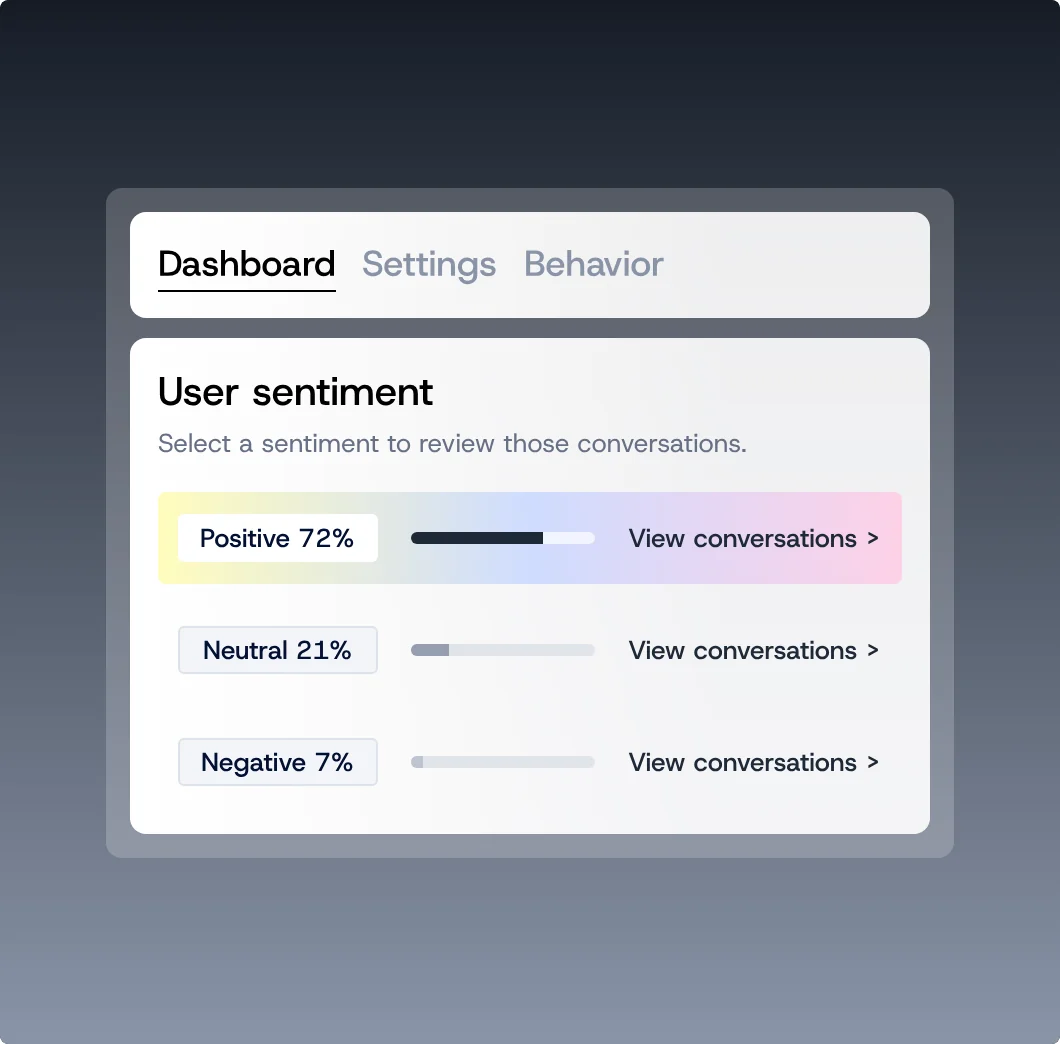
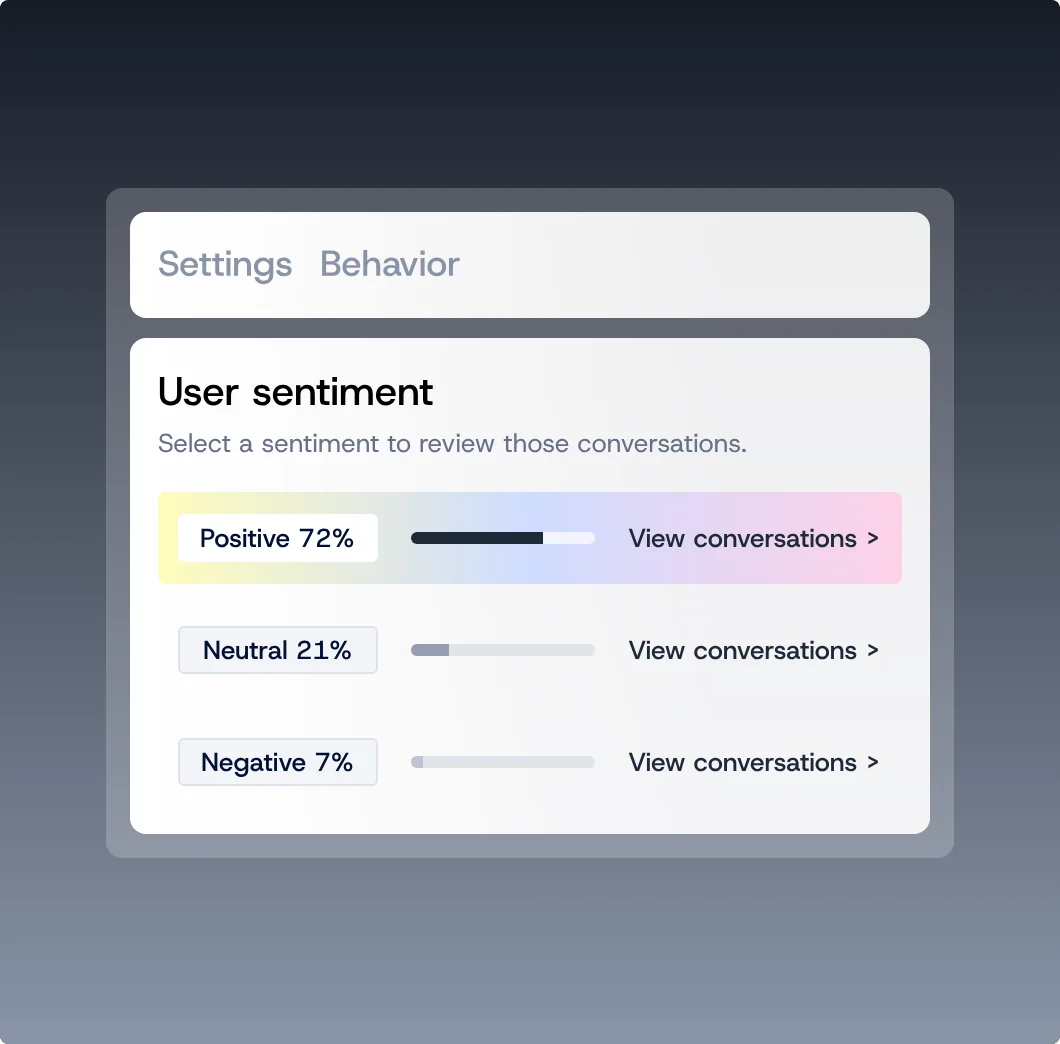
Shopping Agent case study: new section headings and closing copy
Rename the four visual sections, replace the closing section with
Teaching Claude how we make images, add Motion to the project type, and
point the landing page link at the live URL. The sentiment visual drops
the Dashboard tab, so its tab bar reads Settings and Behavior with
neither marked active.

Claude-Session: https://claude.ai/code/session_01EZM689KsvKFphAwFfYHJbi

Changed region(s): [[0.1557, 0.2452, 0.467, 0.2759], [0.4981, 0.2452, 0.6226, 0.2759]]

diff --git a/public/embeds/shopping-agent-sentiment.html b/public/embeds/shopping-agent-sentiment.html
@@ -89,10 +89,8 @@
       <rect x="53" y="94" width="424" height="335" rx="8" class="rsn-f-white" fill-opacity=".2"/>
       <!-- Tabs -->
       <rect x="65" y="106" width="400" height="53" rx="8" fill="url(#rsn-tabs)"/>
-      <path class="rsn-f-black" d="M80.08 137.9V125.3H84.2Q86.42 125.3 87.85 126.07Q89.28 126.85 89.97 128.26Q90.66 129.67 90.66 131.62Q90.66 133.53 89.97 134.94Q89.28 136.35 87.85 137.13Q86.42 137.9 84.2 137.9ZM82.06 136.23H84.11Q85.8 136.23 86.79 135.67Q87.78 135.11 88.22 134.08Q88.65 133.06 88.65 131.62Q88.65 130.18 88.22 129.13Q87.78 128.09 86.79 127.53Q85.8 126.97 84.11 126.97H82.06ZM94.61 138.12Q93.56 138.12 92.83 137.75Q92.1 137.38 91.73 136.77Q91.37 136.15 91.37 135.43Q91.37 134.01 92.39 133.24Q93.42 132.46 95.09 132.46Q95.85 132.46 96.44 132.58Q97.04 132.7 97.41 132.82V132.41Q97.41 131.37 96.85 130.86Q96.28 130.36 95.34 130.36Q94.64 130.36 94.1 130.65Q93.56 130.93 93.42 131.65H91.51Q91.62 130.68 92.17 130.04Q92.72 129.4 93.54 129.08Q94.37 128.76 95.34 128.76Q97.29 128.76 98.34 129.73Q99.39 130.7 99.39 132.41V134.75Q99.39 135.43 99.48 135.74Q99.56 136.05 99.75 136.13Q99.93 136.21 100.26 136.21H100.35V137.9H99.92Q99.02 137.9 98.41 137.63Q97.81 137.36 97.58 136.55Q97.14 137.22 96.41 137.67Q95.67 138.12 94.61 138.12ZM95 136.57Q95.69 136.57 96.17 136.24Q96.66 135.9 96.96 135.35Q97.25 134.8 97.32 134.17Q96.93 134.07 96.39 133.96Q95.85 133.85 95.29 133.85Q94.34 133.85 93.85 134.25Q93.36 134.64 93.36 135.29Q93.36 135.85 93.8 136.21Q94.23 136.57 95 136.57ZM105.26 138.12Q103.57 138.12 102.44 137.32Q101.32 136.53 101.16 135.09H103.19Q103.32 135.76 103.89 136.15Q104.47 136.55 105.33 136.55Q106.18 136.55 106.64 136.21Q107.1 135.87 107.1 135.36Q107.1 134.95 106.8 134.73Q106.5 134.52 105.71 134.39Q105.41 134.34 104.99 134.27Q104.58 134.21 104.27 134.14Q103.59 134.01 102.98 133.71Q102.38 133.4 102 132.87Q101.63 132.34 101.63 131.53Q101.63 130.36 102.51 129.56Q103.39 128.76 105.01 128.76Q106.61 128.76 107.59 129.47Q108.57 130.18 108.72 131.58H106.77Q106.72 130.93 106.22 130.63Q105.71 130.32 105.01 130.32Q104.27 130.32 103.84 130.63Q103.41 130.93 103.41 131.38Q103.41 132.21 104.72 132.45Q104.92 132.48 105.18 132.53Q105.44 132.57 105.72 132.62Q106 132.66 106.2 132.7Q106.67 132.75 107.15 132.91Q107.64 133.06 108.05 133.33Q108.47 133.6 108.72 134.05Q108.97 134.5 108.97 135.18Q108.97 136.05 108.53 136.7Q108.09 137.36 107.26 137.74Q106.43 138.12 105.26 138.12ZM110.52 137.9V124.94H112.5V130.39Q112.95 129.64 113.75 129.2Q114.55 128.76 115.52 128.76Q117.12 128.76 118.05 129.77Q118.98 130.79 118.98 132.79V137.9H117.02V132.99Q117.02 131.73 116.51 131.09Q116.01 130.45 114.96 130.45Q113.9 130.45 113.2 131.19Q112.5 131.92 112.5 133.29V137.9ZM125.85 138.12Q124.81 138.12 124.02 137.7Q123.23 137.29 122.76 136.57V137.9H120.78V124.94H122.76V130.34Q123.19 129.71 123.95 129.23Q124.7 128.76 125.85 128.76Q127.15 128.76 128.14 129.37Q129.13 129.98 129.7 131.04Q130.26 132.1 130.26 133.45Q130.26 134.79 129.7 135.85Q129.13 136.91 128.14 137.51Q127.15 138.12 125.85 138.12ZM125.49 136.39Q126.3 136.39 126.93 136.01Q127.55 135.63 127.9 134.98Q128.25 134.32 128.25 133.45Q128.25 132.57 127.9 131.9Q127.55 131.22 126.93 130.85Q126.3 130.48 125.49 130.48Q124.68 130.48 124.06 130.85Q123.44 131.22 123.09 131.89Q122.74 132.55 122.74 133.44Q122.74 134.32 123.09 134.98Q123.44 135.63 124.06 136.01Q124.68 136.39 125.49 136.39ZM135.92 138.12Q134.58 138.12 133.52 137.53Q132.46 136.95 131.84 135.88Q131.22 134.82 131.22 133.44Q131.22 132.03 131.84 130.98Q132.46 129.93 133.53 129.34Q134.6 128.76 135.92 128.76Q137.27 128.76 138.32 129.34Q139.37 129.93 139.99 130.98Q140.61 132.03 140.61 133.44Q140.61 134.82 139.99 135.88Q139.37 136.95 138.31 137.53Q137.25 138.12 135.92 138.12ZM135.9 136.41Q136.64 136.41 137.24 136.07Q137.84 135.74 138.2 135.08Q138.56 134.43 138.56 133.44Q138.56 132.45 138.2 131.79Q137.84 131.13 137.24 130.8Q136.64 130.47 135.93 130.47Q135.21 130.47 134.6 130.8Q133.99 131.13 133.63 131.79Q133.27 132.45 133.27 133.44Q133.27 134.43 133.63 135.08Q133.99 135.74 134.59 136.07Q135.2 136.41 135.9 136.41ZM144.77 138.12Q143.73 138.12 143 137.75Q142.27 137.38 141.9 136.77Q141.53 136.15 141.53 135.43Q141.53 134.01 142.56 133.24Q143.58 132.46 145.26 132.46Q146.01 132.46 146.61 132.58Q147.2 132.7 147.58 132.82V132.41Q147.58 131.37 147.01 130.86Q146.45 130.36 145.51 130.36Q144.81 130.36 144.27 130.65Q143.73 130.93 143.58 131.65H141.68Q141.78 130.68 142.33 130.04Q142.88 129.4 143.71 129.08Q144.54 128.76 145.51 128.76Q147.45 128.76 148.51 129.73Q149.56 130.7 149.56 132.41V134.75Q149.56 135.43 149.64 135.74Q149.72 136.05 149.91 136.13Q150.1 136.21 150.42 136.21H150.51V137.9H150.08Q149.18 137.9 148.58 137.63Q147.98 137.36 147.74 136.55Q147.31 137.22 146.57 137.67Q145.83 138.12 144.77 138.12ZM145.17 136.57Q145.85 136.57 146.34 136.24Q146.82 135.9 147.12 135.35Q147.42 134.8 147.49 134.17Q147.09 134.07 146.55 133.96Q146.01 133.85 145.46 133.85Q144.5 133.85 144.02 134.25Q143.53 134.64 143.53 135.29Q143.53 135.85 143.96 136.21Q144.39 136.57 145.17 136.57ZM151.99 137.9V128.97H153.97V130.36Q154.29 129.67 154.83 129.29Q155.37 128.9 156.09 128.9H157.34V130.68H155.9Q155.28 130.68 154.85 131.02Q154.42 131.35 154.19 132.05Q153.97 132.75 153.97 133.83V137.9ZM161.93 138.12Q160.65 138.12 159.65 137.5Q158.65 136.89 158.08 135.82Q157.52 134.75 157.52 133.42Q157.52 132.07 158.08 131.02Q158.65 129.96 159.65 129.36Q160.65 128.76 161.94 128.76Q162.99 128.76 163.78 129.17Q164.57 129.58 165.02 130.3V124.94H167V137.9H165.02V136.53Q164.61 137.14 163.85 137.63Q163.1 138.12 161.93 138.12ZM162.29 136.39Q163.1 136.39 163.72 136.01Q164.34 135.63 164.69 134.97Q165.04 134.3 165.04 133.44Q165.04 132.55 164.69 131.89Q164.34 131.22 163.72 130.85Q163.1 130.48 162.29 130.48Q161.49 130.48 160.87 130.85Q160.25 131.22 159.89 131.89Q159.53 132.55 159.53 133.42Q159.53 134.3 159.89 134.97Q160.25 135.63 160.87 136.01Q161.49 136.39 162.29 136.39Z"/>
-      <rect x="79" y="145" width="89" height="1" class="rsn-f-black"/>
-      <path class="rsn-f-gray-500" d="M186.56 138.12Q185.64 138.12 184.78 137.87Q183.92 137.63 183.21 137.11Q182.51 136.59 182.06 135.78Q181.61 134.97 181.52 133.85H183.39Q183.52 134.79 183.99 135.35Q184.46 135.92 185.14 136.16Q185.82 136.41 186.58 136.41Q187.34 136.41 187.95 136.18Q188.56 135.96 188.92 135.5Q189.28 135.04 189.28 134.35Q189.28 133.72 188.93 133.24Q188.58 132.75 187.53 132.57L185.19 132.14Q183.75 131.87 182.89 130.95Q182.03 130.03 182.03 128.77Q182.03 127.6 182.63 126.79Q183.23 125.97 184.23 125.53Q185.23 125.08 186.42 125.08Q187.66 125.08 188.64 125.52Q189.62 125.95 190.24 126.8Q190.86 127.66 190.99 128.99H189.08Q188.97 128.18 188.6 127.69Q188.22 127.21 187.66 126.99Q187.1 126.78 186.44 126.78Q185.82 126.78 185.23 126.97Q184.64 127.17 184.27 127.59Q183.9 128.02 183.9 128.7Q183.9 129.33 184.37 129.79Q184.83 130.25 185.73 130.41L187.91 130.83Q189.48 131.11 190.33 131.96Q191.19 132.81 191.19 134.3Q191.19 135.25 190.79 135.97Q190.4 136.68 189.73 137.15Q189.06 137.63 188.25 137.87Q187.43 138.12 186.56 138.12ZM196.68 138.12Q195.35 138.12 194.33 137.53Q193.31 136.95 192.73 135.9Q192.14 134.86 192.14 133.47Q192.14 132.09 192.72 131.02Q193.29 129.94 194.32 129.35Q195.35 128.76 196.7 128.76Q198.01 128.76 198.99 129.33Q199.97 129.91 200.51 130.88Q201.05 131.85 201.05 133.06Q201.05 133.24 201.05 133.44Q201.05 133.65 201.02 133.9H193.6V132.57H199.07Q199.02 131.56 198.34 130.97Q197.67 130.38 196.7 130.38Q195.99 130.38 195.4 130.69Q194.81 131.01 194.45 131.61Q194.09 132.21 194.09 133.15V133.65Q194.09 134.55 194.45 135.19Q194.81 135.83 195.39 136.15Q195.98 136.48 196.68 136.48Q197.47 136.48 198.01 136.12Q198.55 135.76 198.8 135.15H200.8Q200.57 135.99 200 136.67Q199.43 137.34 198.6 137.73Q197.76 138.12 196.68 138.12ZM205.7 137.9Q204.87 137.9 204.29 137.7Q203.72 137.5 203.43 136.95Q203.14 136.39 203.14 135.33V130.65H201.61V128.97H203.14V126.69H205.12V128.97H207.51V130.65H205.12V135.06Q205.12 135.58 205.22 135.82Q205.32 136.06 205.58 136.14Q205.84 136.21 206.34 136.21H207.42V137.9ZM212.18 137.9Q211.35 137.9 210.77 137.7Q210.2 137.5 209.91 136.95Q209.62 136.39 209.62 135.33V130.65H208.09V128.97H209.62V126.69H211.6V128.97H213.99V130.65H211.6V135.06Q211.6 135.58 211.7 135.82Q211.8 136.06 212.06 136.14Q212.32 136.21 212.82 136.21H213.9V137.9ZM215.25 137.9V128.97H217.23V137.9ZM215.2 127.39V125.25H217.31V127.39ZM219.05 137.9V128.97H221.03V130.39Q221.48 129.64 222.26 129.2Q223.03 128.76 224.02 128.76Q225.66 128.76 226.58 129.77Q227.49 130.79 227.49 132.79V137.9H225.51V132.99Q225.51 131.73 225 131.09Q224.49 130.45 223.44 130.45Q222.4 130.45 221.72 131.19Q221.03 131.92 221.03 133.29V137.9ZM233.96 142.08Q232.79 142.08 231.78 141.69Q230.77 141.3 230.09 140.52Q229.4 139.74 229.24 138.55H231.2Q231.42 139.38 232.16 139.87Q232.89 140.37 233.92 140.37Q234.68 140.37 235.31 140.04Q235.94 139.72 236.3 139.07Q236.67 138.42 236.67 137.43V136.24Q236.4 136.71 235.95 137.11Q235.5 137.5 234.87 137.76Q234.24 138.01 233.43 138.01Q232.17 138.01 231.16 137.4Q230.14 136.78 229.55 135.73Q228.95 134.68 228.95 133.36Q228.95 132.05 229.55 131.01Q230.14 129.96 231.16 129.36Q232.17 128.76 233.45 128.76Q234.55 128.76 235.39 129.22Q236.22 129.69 236.67 130.38V128.97H238.65V137.36Q238.65 138.87 238.02 139.93Q237.39 140.98 236.33 141.53Q235.27 142.08 233.96 142.08ZM233.81 136.28Q234.64 136.28 235.27 135.9Q235.9 135.52 236.27 134.87Q236.64 134.21 236.64 133.38Q236.64 132.52 236.27 131.87Q235.9 131.22 235.27 130.85Q234.64 130.48 233.81 130.48Q232.98 130.48 232.34 130.85Q231.71 131.22 231.34 131.87Q230.97 132.52 230.97 133.36Q230.97 134.21 231.34 134.87Q231.71 135.52 232.34 135.9Q232.98 136.28 233.81 136.28ZM244.07 138.12Q242.38 138.12 241.25 137.32Q240.13 136.53 239.97 135.09H242Q242.13 135.76 242.7 136.15Q243.28 136.55 244.14 136.55Q244.99 136.55 245.45 136.21Q245.91 135.87 245.91 135.36Q245.91 134.95 245.61 134.73Q245.31 134.52 244.52 134.39Q244.22 134.34 243.8 134.27Q243.39 134.21 243.08 134.14Q242.4 134.01 241.79 133.71Q241.19 133.4 240.81 132.87Q240.44 132.34 240.44 131.53Q240.44 130.36 241.32 129.56Q242.2 128.76 243.82 128.76Q245.42 128.76 246.4 129.47Q247.38 130.18 247.53 131.58H245.58Q245.53 130.93 245.03 130.63Q244.52 130.32 243.82 130.32Q243.08 130.32 242.65 130.63Q242.22 130.93 242.22 131.38Q242.22 132.21 243.53 132.45Q243.73 132.48 243.99 132.53Q244.25 132.57 244.53 132.62Q244.81 132.66 245.01 132.7Q245.48 132.75 245.96 132.91Q246.45 133.06 246.86 133.33Q247.28 133.6 247.53 134.05Q247.78 134.5 247.78 135.18Q247.78 136.05 247.34 136.7Q246.9 137.36 246.07 137.74Q245.24 138.12 244.07 138.12Z"/>
-      <path class="rsn-f-gray-500" d="M263.08 137.9V125.3H267.96Q269.27 125.3 270.15 125.71Q271.04 126.13 271.49 126.86Q271.94 127.59 271.94 128.52Q271.94 129.48 271.52 130.12Q271.11 130.77 270.43 131.11Q269.76 131.46 268.98 131.55L269.25 131.35Q270.1 131.37 270.77 131.79Q271.45 132.21 271.85 132.91Q272.24 133.62 272.24 134.46Q272.24 135.43 271.76 136.22Q271.29 137 270.37 137.45Q269.45 137.9 268.12 137.9ZM265.06 136.28H267.87Q268.98 136.28 269.61 135.75Q270.23 135.22 270.23 134.26Q270.23 133.31 269.59 132.75Q268.95 132.19 267.81 132.19H265.06ZM265.06 130.68H267.71Q268.77 130.68 269.34 130.18Q269.92 129.67 269.92 128.79Q269.92 127.93 269.36 127.42Q268.8 126.9 267.67 126.9H265.06ZM277.77 138.12Q276.44 138.12 275.42 137.53Q274.4 136.95 273.82 135.9Q273.23 134.86 273.23 133.47Q273.23 132.09 273.81 131.02Q274.38 129.94 275.41 129.35Q276.44 128.76 277.79 128.76Q279.1 128.76 280.08 129.33Q281.06 129.91 281.6 130.88Q282.14 131.85 282.14 133.06Q282.14 133.24 282.14 133.44Q282.14 133.65 282.11 133.9H274.69V132.57H280.16Q280.11 131.56 279.43 130.97Q278.76 130.38 277.79 130.38Q277.08 130.38 276.49 130.69Q275.9 131.01 275.54 131.61Q275.18 132.21 275.18 133.15V133.65Q275.18 134.55 275.54 135.19Q275.9 135.83 276.48 136.15Q277.07 136.48 277.77 136.48Q278.56 136.48 279.1 136.12Q279.64 135.76 279.89 135.15H281.89Q281.66 135.99 281.09 136.67Q280.52 137.34 279.68 137.73Q278.85 138.12 277.77 138.12ZM283.64 137.9V124.94H285.62V130.39Q286.07 129.64 286.87 129.2Q287.67 128.76 288.64 128.76Q290.24 128.76 291.17 129.77Q292.1 130.79 292.1 132.79V137.9H290.13V132.99Q290.13 131.73 289.63 131.09Q289.13 130.45 288.08 130.45Q287.02 130.45 286.32 131.19Q285.62 131.92 285.62 133.29V137.9ZM296.87 138.12Q295.82 138.12 295.09 137.75Q294.36 137.38 294 136.77Q293.63 136.15 293.63 135.43Q293.63 134.01 294.65 133.24Q295.68 132.46 297.35 132.46Q298.11 132.46 298.7 132.58Q299.3 132.7 299.67 132.82V132.41Q299.67 131.37 299.11 130.86Q298.54 130.36 297.6 130.36Q296.9 130.36 296.36 130.65Q295.82 130.93 295.68 131.65H293.77Q293.88 130.68 294.43 130.04Q294.98 129.4 295.8 129.08Q296.63 128.76 297.6 128.76Q299.55 128.76 300.6 129.73Q301.65 130.7 301.65 132.41V134.75Q301.65 135.43 301.74 135.74Q301.82 136.05 302 136.13Q302.19 136.21 302.52 136.21H302.61V137.9H302.18Q301.28 137.9 300.67 137.63Q300.07 137.36 299.84 136.55Q299.4 137.22 298.67 137.67Q297.93 138.12 296.87 138.12ZM297.26 136.57Q297.95 136.57 298.43 136.24Q298.92 135.9 299.22 135.35Q299.51 134.8 299.58 134.17Q299.19 134.07 298.65 133.96Q298.11 133.85 297.55 133.85Q296.6 133.85 296.11 134.25Q295.62 134.64 295.62 135.29Q295.62 135.85 296.06 136.21Q296.49 136.57 297.26 136.57ZM305.25 137.9 301.92 128.97H303.99L306.44 136.01L308.87 128.97H310.94L307.61 137.9ZM312.31 137.9V128.97H314.29V137.9ZM312.26 127.39V125.25H314.36V127.39ZM320.39 138.12Q319.06 138.12 318 137.53Q316.94 136.95 316.31 135.88Q315.69 134.82 315.69 133.44Q315.69 132.03 316.31 130.98Q316.94 129.93 318.01 129.34Q319.08 128.76 320.39 128.76Q321.74 128.76 322.79 129.34Q323.85 129.93 324.47 130.98Q325.09 132.03 325.09 133.44Q325.09 134.82 324.47 135.88Q323.85 136.95 322.79 137.53Q321.72 138.12 320.39 138.12ZM320.37 136.41Q321.11 136.41 321.71 136.07Q322.32 135.74 322.68 135.08Q323.04 134.43 323.04 133.44Q323.04 132.45 322.68 131.79Q322.32 131.13 321.71 130.8Q321.11 130.47 320.41 130.47Q319.69 130.47 319.08 130.8Q318.47 131.13 318.11 131.79Q317.75 132.45 317.75 133.44Q317.75 134.43 318.11 135.08Q318.47 135.74 319.07 136.07Q319.67 136.41 320.37 136.41ZM326.48 137.9V128.97H328.46V130.36Q328.78 129.67 329.32 129.29Q329.86 128.9 330.58 128.9H331.82V130.68H330.38Q329.77 130.68 329.34 131.02Q328.91 131.35 328.68 132.05Q328.46 132.75 328.46 133.83V137.9Z"/>
+      <path class="rsn-f-gray-500" d="M84.56 138.12Q83.64 138.12 82.78 137.87Q81.92 137.63 81.21 137.11Q80.51 136.59 80.06 135.78Q79.61 134.97 79.52 133.85H81.39Q81.52 134.79 81.99 135.35Q82.46 135.92 83.14 136.16Q83.82 136.41 84.58 136.41Q85.34 136.41 85.95 136.18Q86.56 135.96 86.92 135.5Q87.28 135.04 87.28 134.35Q87.28 133.72 86.93 133.24Q86.58 132.75 85.53 132.57L83.19 132.14Q81.75 131.87 80.89 130.95Q80.03 130.03 80.03 128.77Q80.03 127.6 80.63 126.79Q81.23 125.97 82.23 125.53Q83.23 125.08 84.42 125.08Q85.66 125.08 86.64 125.52Q87.62 125.95 88.24 126.8Q88.86 127.66 88.99 128.99H87.08Q86.97 128.18 86.6 127.69Q86.22 127.21 85.66 126.99Q85.1 126.78 84.44 126.78Q83.82 126.78 83.23 126.97Q82.64 127.17 82.27 127.59Q81.9 128.02 81.9 128.7Q81.9 129.33 82.37 129.79Q82.83 130.25 83.73 130.41L85.91 130.83Q87.48 131.11 88.33 131.96Q89.19 132.81 89.19 134.3Q89.19 135.25 88.79 135.97Q88.4 136.68 87.73 137.15Q87.06 137.63 86.25 137.87Q85.43 138.12 84.56 138.12ZM94.68 138.12Q93.35 138.12 92.33 137.53Q91.31 136.95 90.73 135.9Q90.14 134.86 90.14 133.47Q90.14 132.09 90.72 131.02Q91.29 129.94 92.32 129.35Q93.35 128.76 94.7 128.76Q96.01 128.76 96.99 129.33Q97.97 129.91 98.51 130.88Q99.05 131.85 99.05 133.06Q99.05 133.24 99.05 133.44Q99.05 133.65 99.02 133.9H91.6V132.57H97.07Q97.02 131.56 96.34 130.97Q95.67 130.38 94.7 130.38Q93.99 130.38 93.4 130.69Q92.81 131.01 92.45 131.61Q92.09 132.21 92.09 133.15V133.65Q92.09 134.55 92.45 135.19Q92.81 135.83 93.39 136.15Q93.98 136.48 94.68 136.48Q95.47 136.48 96.01 136.12Q96.55 135.76 96.8 135.15H98.8Q98.57 135.99 98 136.67Q97.43 137.34 96.59 137.73Q95.76 138.12 94.68 138.12ZM103.7 137.9Q102.87 137.9 102.29 137.7Q101.72 137.5 101.43 136.95Q101.14 136.39 101.14 135.33V130.65H99.61V128.97H101.14V126.69H103.12V128.97H105.51V130.65H103.12V135.06Q103.12 135.58 103.22 135.82Q103.32 136.06 103.58 136.14Q103.84 136.21 104.34 136.21H105.42V137.9ZM110.18 137.9Q109.35 137.9 108.77 137.7Q108.2 137.5 107.91 136.95Q107.62 136.39 107.62 135.33V130.65H106.09V128.97H107.62V126.69H109.6V128.97H111.99V130.65H109.6V135.06Q109.6 135.58 109.7 135.82Q109.8 136.06 110.06 136.14Q110.32 136.21 110.82 136.21H111.9V137.9ZM113.25 137.9V128.97H115.23V137.9ZM113.2 127.39V125.25H115.31V127.39ZM117.05 137.9V128.97H119.03V130.39Q119.48 129.64 120.26 129.2Q121.03 128.76 122.02 128.76Q123.66 128.76 124.58 129.77Q125.49 130.79 125.49 132.79V137.9H123.51V132.99Q123.51 131.73 123 131.09Q122.49 130.45 121.44 130.45Q120.4 130.45 119.72 131.19Q119.03 131.92 119.03 133.29V137.9ZM131.96 142.08Q130.79 142.08 129.78 141.69Q128.77 141.3 128.09 140.52Q127.4 139.74 127.24 138.55H129.2Q129.42 139.38 130.16 139.87Q130.89 140.37 131.92 140.37Q132.68 140.37 133.31 140.04Q133.94 139.72 134.31 139.07Q134.67 138.42 134.67 137.43V136.24Q134.4 136.71 133.95 137.11Q133.5 137.5 132.87 137.76Q132.24 138.01 131.43 138.01Q130.17 138.01 129.16 137.4Q128.14 136.78 127.55 135.73Q126.95 134.68 126.95 133.36Q126.95 132.05 127.55 131.01Q128.14 129.96 129.16 129.36Q130.17 128.76 131.45 128.76Q132.55 128.76 133.39 129.22Q134.22 129.69 134.67 130.38V128.97H136.65V137.36Q136.65 138.87 136.02 139.93Q135.39 140.98 134.33 141.53Q133.27 142.08 131.96 142.08ZM131.81 136.28Q132.64 136.28 133.27 135.9Q133.9 135.52 134.27 134.87Q134.64 134.21 134.64 133.38Q134.64 132.52 134.27 131.87Q133.9 131.22 133.27 130.85Q132.64 130.48 131.81 130.48Q130.98 130.48 130.35 130.85Q129.71 131.22 129.34 131.87Q128.97 132.52 128.97 133.36Q128.97 134.21 129.34 134.87Q129.71 135.52 130.35 135.9Q130.98 136.28 131.81 136.28ZM142.07 138.12Q140.38 138.12 139.26 137.32Q138.13 136.53 137.97 135.09H140Q140.13 135.76 140.7 136.15Q141.28 136.55 142.14 136.55Q142.99 136.55 143.45 136.21Q143.91 135.87 143.91 135.36Q143.91 134.95 143.61 134.73Q143.31 134.52 142.52 134.39Q142.22 134.34 141.8 134.27Q141.39 134.21 141.08 134.14Q140.4 134.01 139.8 133.71Q139.19 133.4 138.81 132.87Q138.44 132.34 138.44 131.53Q138.44 130.36 139.32 129.56Q140.2 128.76 141.82 128.76Q143.42 128.76 144.4 129.47Q145.38 130.18 145.53 131.58H143.58Q143.53 130.93 143.03 130.63Q142.52 130.32 141.82 130.32Q141.08 130.32 140.65 130.63Q140.22 130.93 140.22 131.38Q140.22 132.21 141.53 132.45Q141.73 132.48 141.99 132.53Q142.25 132.57 142.53 132.62Q142.81 132.66 143.01 132.7Q143.48 132.75 143.96 132.91Q144.45 133.06 144.86 133.33Q145.28 133.6 145.53 134.05Q145.78 134.5 145.78 135.18Q145.78 136.05 145.34 136.7Q144.9 137.36 144.07 137.74Q143.24 138.12 142.07 138.12Z"/>
+      <path class="rsn-f-gray-500" d="M161.08 137.9V125.3H165.96Q167.27 125.3 168.15 125.71Q169.04 126.13 169.49 126.86Q169.94 127.59 169.94 128.52Q169.94 129.48 169.52 130.12Q169.11 130.77 168.43 131.11Q167.76 131.46 166.98 131.55L167.25 131.35Q168.1 131.37 168.77 131.79Q169.45 132.21 169.85 132.91Q170.24 133.62 170.24 134.46Q170.24 135.43 169.76 136.22Q169.29 137 168.37 137.45Q167.45 137.9 166.12 137.9ZM163.06 136.28H165.87Q166.98 136.28 167.61 135.75Q168.23 135.22 168.23 134.26Q168.23 133.31 167.59 132.75Q166.95 132.19 165.81 132.19H163.06ZM163.06 130.68H165.71Q166.77 130.68 167.34 130.18Q167.92 129.67 167.92 128.79Q167.92 127.93 167.36 127.42Q166.8 126.9 165.67 126.9H163.06ZM175.77 138.12Q174.44 138.12 173.42 137.53Q172.4 136.95 171.82 135.9Q171.23 134.86 171.23 133.47Q171.23 132.09 171.81 131.02Q172.38 129.94 173.41 129.35Q174.44 128.76 175.79 128.76Q177.1 128.76 178.08 129.33Q179.06 129.91 179.6 130.88Q180.14 131.85 180.14 133.06Q180.14 133.24 180.14 133.44Q180.14 133.65 180.11 133.9H172.69V132.57H178.16Q178.11 131.56 177.43 130.97Q176.76 130.38 175.79 130.38Q175.08 130.38 174.49 130.69Q173.9 131.01 173.54 131.61Q173.18 132.21 173.18 133.15V133.65Q173.18 134.55 173.54 135.19Q173.9 135.83 174.48 136.15Q175.07 136.48 175.77 136.48Q176.56 136.48 177.1 136.12Q177.64 135.76 177.89 135.15H179.89Q179.66 135.99 179.09 136.67Q178.52 137.34 177.69 137.73Q176.85 138.12 175.77 138.12ZM181.64 137.9V124.94H183.62V130.39Q184.07 129.64 184.87 129.2Q185.67 128.76 186.64 128.76Q188.24 128.76 189.17 129.77Q190.1 130.79 190.1 132.79V137.9H188.13V132.99Q188.13 131.73 187.63 131.09Q187.13 130.45 186.08 130.45Q185.02 130.45 184.32 131.19Q183.62 131.92 183.62 133.29V137.9ZM194.87 138.12Q193.82 138.12 193.09 137.75Q192.36 137.38 192 136.77Q191.63 136.15 191.63 135.43Q191.63 134.01 192.65 133.24Q193.68 132.46 195.35 132.46Q196.11 132.46 196.7 132.58Q197.3 132.7 197.67 132.82V132.41Q197.67 131.37 197.11 130.86Q196.54 130.36 195.6 130.36Q194.9 130.36 194.36 130.65Q193.82 130.93 193.68 131.65H191.77Q191.88 130.68 192.43 130.04Q192.98 129.4 193.8 129.08Q194.63 128.76 195.6 128.76Q197.55 128.76 198.6 129.73Q199.65 130.7 199.65 132.41V134.75Q199.65 135.43 199.74 135.74Q199.82 136.05 200 136.13Q200.19 136.21 200.52 136.21H200.61V137.9H200.18Q199.28 137.9 198.67 137.63Q198.07 137.36 197.84 136.55Q197.4 137.22 196.67 137.67Q195.93 138.12 194.87 138.12ZM195.26 136.57Q195.95 136.57 196.43 136.24Q196.92 135.9 197.22 135.35Q197.51 134.8 197.58 134.17Q197.19 134.07 196.65 133.96Q196.11 133.85 195.55 133.85Q194.6 133.85 194.11 134.25Q193.62 134.64 193.62 135.29Q193.62 135.85 194.06 136.21Q194.49 136.57 195.26 136.57ZM203.25 137.9 199.92 128.97H201.99L204.44 136.01L206.87 128.97H208.94L205.61 137.9ZM210.31 137.9V128.97H212.29V137.9ZM210.26 127.39V125.25H212.36V127.39ZM218.39 138.12Q217.06 138.12 216 137.53Q214.94 136.95 214.32 135.88Q213.69 134.82 213.69 133.44Q213.69 132.03 214.32 130.98Q214.94 129.93 216.01 129.34Q217.08 128.76 218.39 128.76Q219.74 128.76 220.8 129.34Q221.85 129.93 222.47 130.98Q223.09 132.03 223.09 133.44Q223.09 134.82 222.47 135.88Q221.85 136.95 220.79 137.53Q219.72 138.12 218.39 138.12ZM218.37 136.41Q219.11 136.41 219.72 136.07Q220.32 135.74 220.68 135.08Q221.04 134.43 221.04 133.44Q221.04 132.45 220.68 131.79Q220.32 131.13 219.72 130.8Q219.11 130.47 218.41 130.47Q217.69 130.47 217.08 130.8Q216.47 131.13 216.11 131.79Q215.75 132.45 215.75 133.44Q215.75 134.43 216.11 135.08Q216.47 135.74 217.07 136.07Q217.67 136.41 218.37 136.41ZM224.48 137.9V128.97H226.46V130.36Q226.78 129.67 227.32 129.29Q227.86 128.9 228.58 128.9H229.82V130.68H228.38Q227.77 130.68 227.34 131.02Q226.91 131.35 226.68 132.05Q226.46 132.75 226.46 133.83V137.9Z"/>
       <!-- Sentiment card -->
       <rect x="65" y="169" width="400" height="248" rx="8" fill="url(#rsn-card)"/>
       <path class="rsn-f-black" d="M85.3 202.74Q83.8 202.74 82.59 202.15Q81.38 201.56 80.66 200.33Q79.94 199.1 79.94 197.22V188.5H82.14V197.24Q82.14 199.04 83.01 199.89Q83.88 200.74 85.34 200.74Q86.82 200.74 87.68 199.89Q88.54 199.04 88.54 197.24V188.5H90.74V197.22Q90.74 199.1 90.01 200.33Q89.28 201.56 88.04 202.15Q86.8 202.74 85.3 202.74ZM96.4 202.74Q94.52 202.74 93.27 201.86Q92.02 200.98 91.84 199.38H94.1Q94.24 200.12 94.88 200.56Q95.52 201 96.48 201Q97.42 201 97.93 200.62Q98.44 200.24 98.44 199.68Q98.44 199.22 98.11 198.98Q97.78 198.74 96.9 198.6Q96.56 198.54 96.1 198.47Q95.64 198.4 95.3 198.32Q94.54 198.18 93.87 197.84Q93.2 197.5 92.78 196.91Q92.36 196.32 92.36 195.42Q92.36 194.12 93.34 193.23Q94.32 192.34 96.12 192.34Q97.9 192.34 98.99 193.13Q100.08 193.92 100.24 195.48H98.08Q98.02 194.76 97.46 194.42Q96.9 194.08 96.12 194.08Q95.3 194.08 94.82 194.42Q94.34 194.76 94.34 195.26Q94.34 196.18 95.8 196.44Q96.02 196.48 96.31 196.53Q96.6 196.58 96.91 196.63Q97.22 196.68 97.44 196.72Q97.96 196.78 98.5 196.95Q99.04 197.12 99.5 197.42Q99.96 197.72 100.24 198.22Q100.52 198.72 100.52 199.48Q100.52 200.44 100.03 201.17Q99.54 201.9 98.62 202.32Q97.7 202.74 96.4 202.74ZM106.76 202.74Q105.28 202.74 104.15 202.09Q103.02 201.44 102.37 200.28Q101.72 199.12 101.72 197.58Q101.72 196.04 102.36 194.85Q103 193.66 104.14 193Q105.28 192.34 106.78 192.34Q108.24 192.34 109.33 192.98Q110.42 193.62 111.02 194.7Q111.62 195.78 111.62 197.12Q111.62 197.32 111.62 197.55Q111.62 197.78 111.58 198.06H103.34V196.58H109.42Q109.36 195.46 108.61 194.8Q107.86 194.14 106.78 194.14Q106 194.14 105.34 194.49Q104.68 194.84 104.28 195.51Q103.88 196.18 103.88 197.22V197.78Q103.88 198.78 104.28 199.49Q104.68 200.2 105.33 200.56Q105.98 200.92 106.76 200.92Q107.64 200.92 108.24 200.52Q108.84 200.12 109.12 199.44H111.34Q111.08 200.38 110.45 201.13Q109.82 201.88 108.89 202.31Q107.96 202.74 106.76 202.74ZM113.32 202.5V192.58H115.52V194.12Q115.88 193.36 116.48 192.93Q117.08 192.5 117.88 192.5H119.26V194.48H117.66Q116.98 194.48 116.5 194.85Q116.02 195.22 115.77 196Q115.52 196.78 115.52 197.98V202.5ZM131.1 202.74Q129.22 202.74 127.97 201.86Q126.72 200.98 126.54 199.38H128.8Q128.94 200.12 129.58 200.56Q130.22 201 131.18 201Q132.12 201 132.63 200.62Q133.14 200.24 133.14 199.68Q133.14 199.22 132.81 198.98Q132.48 198.74 131.6 198.6Q131.26 198.54 130.8 198.47Q130.34 198.4 130 198.32Q129.24 198.18 128.57 197.84Q127.9 197.5 127.48 196.91Q127.06 196.32 127.06 195.42Q127.06 194.12 128.04 193.23Q129.02 192.34 130.82 192.34Q132.6 192.34 133.69 193.13Q134.78 193.92 134.94 195.48H132.78Q132.72 194.76 132.16 194.42Q131.6 194.08 130.82 194.08Q130 194.08 129.52 194.42Q129.04 194.76 129.04 195.26Q129.04 196.18 130.5 196.44Q130.72 196.48 131.01 196.53Q131.3 196.58 131.61 196.63Q131.92 196.68 132.14 196.72Q132.66 196.78 133.2 196.95Q133.74 197.12 134.2 197.42Q134.66 197.72 134.94 198.22Q135.22 198.72 135.22 199.48Q135.22 200.44 134.73 201.17Q134.24 201.9 133.32 202.32Q132.4 202.74 131.1 202.74ZM141.46 202.74Q139.98 202.74 138.85 202.09Q137.72 201.44 137.07 200.28Q136.42 199.12 136.42 197.58Q136.42 196.04 137.06 194.85Q137.7 193.66 138.84 193Q139.98 192.34 141.48 192.34Q142.94 192.34 144.03 192.98Q145.12 193.62 145.72 194.7Q146.32 195.78 146.32 197.12Q146.32 197.32 146.32 197.55Q146.32 197.78 146.28 198.06H138.04V196.58H144.12Q144.06 195.46 143.31 194.8Q142.56 194.14 141.48 194.14Q140.7 194.14 140.04 194.49Q139.38 194.84 138.98 195.51Q138.58 196.18 138.58 197.22V197.78Q138.58 198.78 138.98 199.49Q139.38 200.2 140.03 200.56Q140.68 200.92 141.46 200.92Q142.34 200.92 142.94 200.52Q143.54 200.12 143.82 199.44H146.04Q145.78 200.38 145.15 201.13Q144.52 201.88 143.59 202.31Q142.66 202.74 141.46 202.74ZM148.02 202.5V192.58H150.22V194.16Q150.72 193.32 151.58 192.83Q152.44 192.34 153.54 192.34Q155.36 192.34 156.38 193.47Q157.4 194.6 157.4 196.82V202.5H155.2V197.04Q155.2 195.64 154.63 194.93Q154.06 194.22 152.9 194.22Q151.74 194.22 150.98 195.04Q150.22 195.86 150.22 197.38V202.5ZM162.8 202.5Q161.88 202.5 161.24 202.28Q160.6 202.06 160.28 201.44Q159.96 200.82 159.96 199.64V194.44H158.26V192.58H159.96V190.04H162.16V192.58H164.82V194.44H162.16V199.34Q162.16 199.92 162.27 200.19Q162.38 200.46 162.67 200.54Q162.96 200.62 163.52 200.62H164.72V202.5ZM166.22 202.5V192.58H168.42V202.5ZM166.16 190.82V188.44H168.5V190.82ZM170.46 202.5V192.58H172.66V193.88Q173.14 193.16 173.93 192.75Q174.72 192.34 175.7 192.34Q176.86 192.34 177.69 192.8Q178.52 193.26 178.98 194.18Q179.52 193.32 180.43 192.83Q181.34 192.34 182.42 192.34Q184.28 192.34 185.33 193.47Q186.38 194.6 186.38 196.82V202.5H184.2V197.04Q184.2 195.64 183.65 194.93Q183.1 194.22 182.02 194.22Q180.92 194.22 180.23 195.04Q179.54 195.86 179.54 197.38V202.5H177.34V197.04Q177.34 195.64 176.78 194.93Q176.22 194.22 175.14 194.22Q174.06 194.22 173.36 195.04Q172.66 195.86 172.66 197.38V202.5ZM193 202.74Q191.52 202.74 190.39 202.09Q189.26 201.44 188.61 200.28Q187.96 199.12 187.96 197.58Q187.96 196.04 188.6 194.85Q189.24 193.66 190.38 193Q191.52 192.34 193.02 192.34Q194.48 192.34 195.57 192.98Q196.66 193.62 197.26 194.7Q197.86 195.78 197.86 197.12Q197.86 197.32 197.86 197.55Q197.86 197.78 197.82 198.06H189.58V196.58H195.66Q195.6 195.46 194.85 194.8Q194.1 194.14 193.02 194.14Q192.24 194.14 191.58 194.49Q190.92 194.84 190.52 195.51Q190.12 196.18 190.12 197.22V197.78Q190.12 198.78 190.52 199.49Q190.92 200.2 191.57 200.56Q192.22 200.92 193 200.92Q193.88 200.92 194.48 200.52Q195.08 200.12 195.36 199.44H197.58Q197.32 200.38 196.69 201.13Q196.06 201.88 195.13 202.31Q194.2 202.74 193 202.74ZM199.56 202.5V192.58H201.76V194.16Q202.26 193.32 203.12 192.83Q203.98 192.34 205.08 192.34Q206.9 192.34 207.92 193.47Q208.94 194.6 208.94 196.82V202.5H206.74V197.04Q206.74 195.64 206.17 194.93Q205.6 194.22 204.44 194.22Q203.28 194.22 202.52 195.04Q201.76 195.86 201.76 197.38V202.5ZM214.34 202.5Q213.42 202.5 212.78 202.28Q212.14 202.06 211.82 201.44Q211.5 200.82 211.5 199.64V194.44H209.8V192.58H211.5V190.04H213.7V192.58H216.36V194.44H213.7V199.34Q213.7 199.92 213.81 200.19Q213.92 200.46 214.21 200.54Q214.5 200.62 215.06 200.62H216.26V202.5Z"/>

diff --git a/src/data/projects.ts b/src/data/projects.ts
@@ -542,7 +542,7 @@ const allProjects: Project[] = [
     ogImage: "/project-shopping-agent-og.jpg",
     showOnHomepage: false,
     homepageWord: "launch pages",
-    tags: ["Visual Design", "Web Design", "Claude Skill"],
+    tags: ["Visual Design", "Web Design", "Claude Skill", "Motion"],
     tools: ["Figma", "Claude"],
     client: "BigCommerce",
     clientUrl: "https://www.bigcommerce.com/",
@@ -550,7 +550,7 @@ const allProjects: Project[] = [
       {
         type: "text",
         heading: "Making a new AI feature easy to picture",
-        body: `<p>Shopping Agent is a new <a href="https://www.bigcommerce.com/" target="_blank" rel="noopener noreferrer">BigCommerce</a> feature that answers shoppers' questions on a merchant's storefront and helps them find the right product. Product gave us the idea, a few screen recordings, and screenshots of the prototype before it shipped. My job was to turn that into a <a href="https://www.bigcommerce.com/product/shopping-agent" target="_blank" rel="noopener noreferrer">landing page</a> people would understand at a glance.</p><p>I started from the copywriter's first draft, read the project brief, and ran a kickoff to agree on what the feature does, how it helps merchants, and how to make that clear on the page. Then I designed the page and every image on it.</p>`,
+        body: `<p>Shopping Agent is a new <a href="https://www.bigcommerce.com/" target="_blank" rel="noopener noreferrer">BigCommerce</a> feature that answers shoppers' questions on a merchant's storefront and helps them find the right product. Product gave us the idea, a few screen recordings, and screenshots of the prototype before it shipped. My job was to turn that into a <a href="https://www.bigcommerce.com/product/shopping-agent/" target="_blank" rel="noopener noreferrer">landing page</a> people would understand at a glance.</p><p>I started from the copywriter's first draft, read the project brief, and ran a kickoff to agree on what the feature does, how it helps merchants, and how to make that clear on the page. Then I designed the page and every image on it.</p>`,
       },
       {
         type: "text",
@@ -559,7 +559,7 @@ const allProjects: Project[] = [
       },
       {
         type: "visualPair",
-        title: "Behavior settings",
+        title: "Control what the agent can do",
         beforeLabel: "Product demo",
         afterLabel: "On the page",
         before: { src: "/project-shopping-agent-proto-behavior.webp", alt: "The product demo's Behavior tab in the BigCommerce control panel, with a Skills list where Brand search, Product category search, Order history, Add to cart, View cart and View checkout are all switched on" },
@@ -567,7 +567,7 @@ const allProjects: Project[] = [
       },
       {
         type: "visualPair",
-        title: "Product picks",
+        title: "Show the right products",
         beforeLabel: "Product demo",
         afterLabel: "On the page",
         before: { src: "/project-shopping-agent-proto-picks.webp", alt: "The product demo storefront for a movie poster store, with the agent's chat open on the right showing poster recommendations" },
@@ -575,7 +575,7 @@ const allProjects: Project[] = [
       },
       {
         type: "visualPair",
-        title: "Impact",
+        title: "Prove it converts",
         beforeLabel: "Product demo",
         afterLabel: "On the page",
         before: { src: "/project-shopping-agent-proto-dashboard.webp", alt: "The product demo's Shopping Agent dashboard: conversation totals, a purchase funnel, user sentiment, and agent impact on purchases with a 1.9x purchase conversion lift" },
@@ -583,17 +583,17 @@ const allProjects: Project[] = [
       },
       {
         type: "visualPair",
-        title: "Sentiment",
+        title: "Know how shoppers feel",
         beforeLabel: "Product demo",
         afterLabel: "On the page",
         hint: "Hover a row to switch sentiment",
         before: { src: "/project-shopping-agent-proto-dashboard.webp", alt: "The product demo's Shopping Agent dashboard, with the user sentiment card showing Positive, Neutral and Negative rows and a cursor over Positive" },
-        embed: { src: "/embeds/shopping-agent-sentiment.html", ratio: "530 / 522", poster: "/project-shopping-agent-sentiment-poster.webp", title: "Animated sentiment dashboard: Positive 72%, Neutral 21% and Negative 7% bars fill in turn, then hovering a row moves the highlight to it" },
+        embed: { src: "/embeds/shopping-agent-sentiment.html", ratio: "530 / 522", poster: "/project-shopping-agent-sentiment-poster.webp", title: "Animated sentiment card: Positive 72%, Neutral 21% and Negative 7% bars fill in turn, then hovering a row moves the highlight to it" },
       },
       {
         type: "text",
-        heading: "Drafting the images with a Claude skill",
-        body: `<p>Shopping Agent needed a family of images that looked like they belonged together and matched the rest of our site. I pointed a Claude skill at images already on bigcommerce.com so it could build new ones in Figma in the same style. I then tightened each draft by hand and art directed the rest by voice, so the time went into choices rather than pushing pixels. The animations on the visuals are built with Claude too.</p>`,
+        heading: "Teaching Claude how we make images",
+        body: `<p>Shopping Agent needed a family of images that looked like they belonged together and matched the rest of our site. I didn't prompt each one from scratch. I pointed a Claude skill at the images already on bigcommerce.com so it learned our style, brand tokens and a short set of motion rules. Give it a section of copy and it drafts the visual in Figma. I tighten each draft by hand and dictate notes on the rest, so my time goes into choices instead of pushing pixels.</p><p>The skill is a living file. When a review turns up a gap, I fix the skill instead of the one image. Our animations play once and stay short. When one invites a click, it now shows a quiet hover cue, because I added that rule after the first draft missed it. Every image after that gets it for free. Claude built the animations too, so they follow the same rules.</p>`,
       },
     ],
   },
